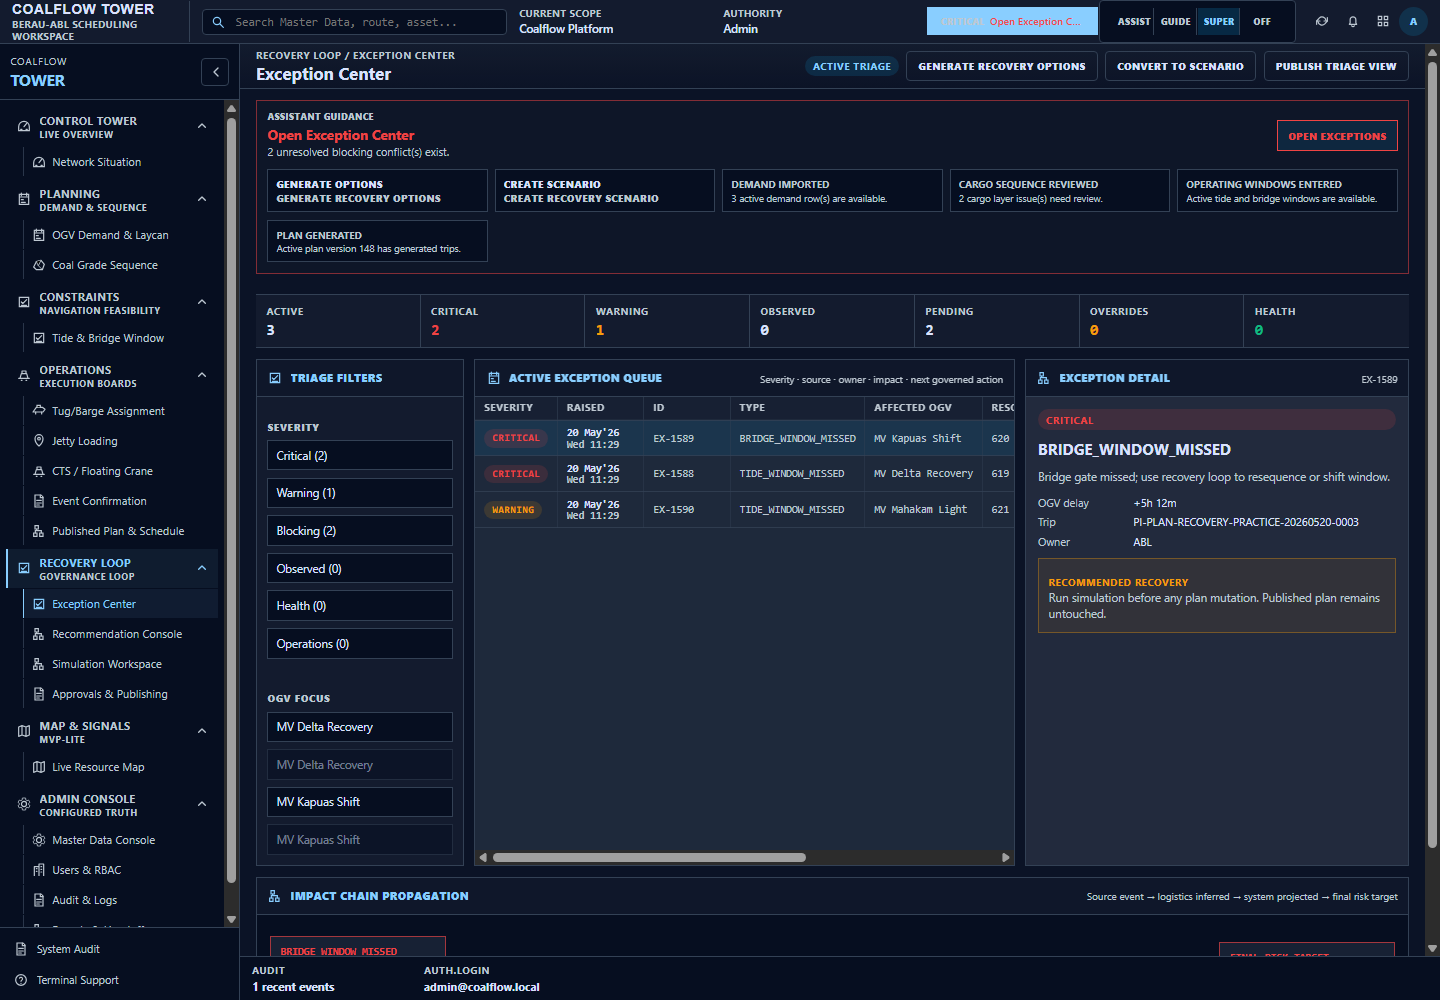
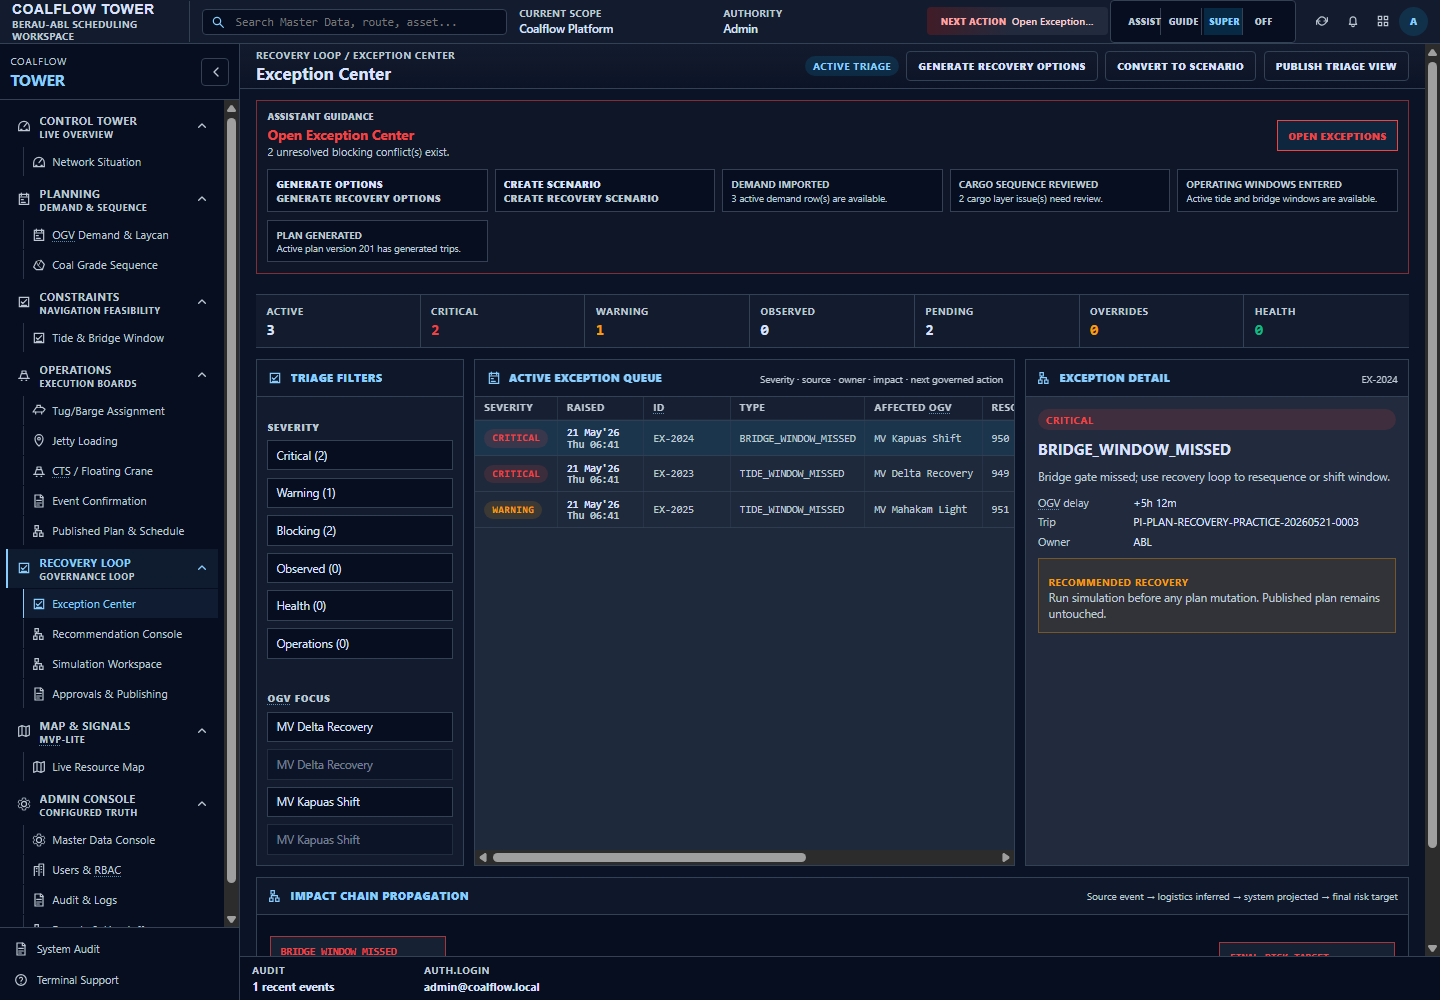
Demo Ready

Changed region(s): [[0.625, 0.0, 0.875, 0.062], [0.4062, 0.434, 0.4375, 0.527]]

diff --git a/frontend/src/lib/navigation.ts b/frontend/src/lib/navigation.ts
@@ -172,7 +172,7 @@ export const NAV_MODULES: NavModule[] = [
   {
     id: "map",
     label: "Map & Signals",
-    eyebrow: "MVP-lite",
+    eyebrow: "GPS/AIS Dashboard",
     icon: "map",
     items: [
       {

diff --git a/backend/apps/planning/views.py b/backend/apps/planning/views.py
@@ -15,6 +15,7 @@ from apps.audit.services import record_audit_event
 from apps.masters.models import Barge, CoalGrade, CTSAsset, Jetty, Location, RouteSegment
 from apps.organizations.models import Organization
 from apps.rbac.permissions import RequiresAccessPermission
+from apps.scheduling.models import PlanVersion
 
 from .models import (
     AssetAvailabilityWindow,
@@ -467,6 +468,29 @@ def _clear_resolved_navigation_recovery_state(voyages: list[OGVVoyage]) -> dict[
     return {"cargoLayers": cleared_layers, "voyages": cleared_voyages}
 
 
+def _mark_editable_plan_versions_stale(*, reason: str) -> int:
+    stale_count = 0
+    now = timezone.now().isoformat()
+    for plan_version in PlanVersion.objects.filter(
+        status__in=[
+            PlanVersion.Status.DRAFT,
+            PlanVersion.Status.GENERATED,
+            PlanVersion.Status.VALIDATED,
+            PlanVersion.Status.PROPOSED,
+        ],
+    ):
+        summary = plan_version.summary if isinstance(plan_version.summary, dict) else {}
+        plan_version.summary = {
+            **summary,
+            "sourceInputsChanged": True,
+            "sourceInputChangeReason": reason,
+            "sourceInputChangedAt": now,
+        }
+        plan_version.save(update_fields=["summary", "updated_at"])
+        stale_count += 1
+    return stale_count
+
+
 class PlanningOverviewViewSet(PlanningViewSet):
     queryset = OGVVoyage.objects.none()
     serializer_class = OGVVoyageSerializer
@@ -681,6 +705,9 @@ class PlanningOverviewViewSet(PlanningViewSet):
                 checks_created += 2
 
         cleared_recovery_state = _clear_resolved_navigation_recovery_state(target_voyages)
+        stale_plan_versions = _mark_editable_plan_versions_stale(
+            reason="operating_windows_entered",
+        )
 
         record_audit_event(
             actor=request.user,
@@ -697,6 +724,7 @@ class PlanningOverviewViewSet(PlanningViewSet):
                 "constraint_checks": checks_created,
                 "cleared_layer_blockers": cleared_recovery_state["cargoLayers"],
                 "cleared_voyage_blockers": cleared_recovery_state["voyages"],
+                "stale_plan_versions": stale_plan_versions,
             },
             request=request,
         )
@@ -711,6 +739,7 @@ class PlanningOverviewViewSet(PlanningViewSet):
                 "constraintChecks": checks_created,
                 "clearedLayerBlockers": cleared_recovery_state["cargoLayers"],
                 "clearedVoyageBlockers": cleared_recovery_state["voyages"],
+                "stalePlanVersions": stale_plan_versions,
             },
             status=status.HTTP_201_CREATED,
         )

diff --git a/backend/apps/assistant/tests/test_rules.py b/backend/apps/assistant/tests/test_rules.py
@@ -154,6 +154,65 @@ def test_blocking_conflict_outranks_submit_approval():
     assert shaped.global_next_action.action_id == "OPEN_EXCEPTION_CENTER"
 
 
+def test_recovery_recommendation_route_prioritizes_testing_over_generic_exception():
+    ctx = context(
+        route="/recovery/recommendations",
+        active_plan_status=PlanVersion.Status.GENERATED,
+        active_plan_trip_count=4,
+        blocking_conflict_count=2,
+        demand_count=2,
+        tide_window_count=1,
+        bridge_window_count=1,
+        latest_optimizer_run_id=12,
+        latest_optimizer_run_status=OptimizerRun.Status.SUCCEEDED,
+        latest_optimizer_run_candidate_count=3,
+        top_recovery_recommendation_id=44,
+        top_recovery_recommendation_ref="REC-44",
+        top_recovery_recommendation_status=RecoveryRecommendation.Status.CANDIDATE,
+    )
+
+    shaped = shape_recommendations(ctx, evaluate_rules(ctx))
+
+    assert shaped.global_next_action
+    assert shaped.global_next_action.action_id == "MATERIALIZE_RECOVERY_RECOMMENDATION"
+    assert action_ids(shaped.page_actions)[0] == "MATERIALIZE_RECOVERY_RECOMMENDATION"
+
+
+def test_corrected_constraints_prioritize_regeneration_over_stale_exceptions():
+    ctx = context(
+        route="/constraints/tide-bridge",
+        active_plan_status=PlanVersion.Status.PROPOSED,
+        active_plan_trip_count=6,
+        active_plan_is_editable=True,
+        source_inputs_changed=True,
+        blocking_conflict_count=6,
+        constraint_blocker_count=0,
+        demand_count=3,
+        tide_window_count=4,
+        bridge_window_count=4,
+    )
+
+    shaped = shape_recommendations(ctx, evaluate_rules(ctx))
+
+    assert shaped.global_next_action
+    assert shaped.global_next_action.action_id == "REGENERATE_PLAN"
+    assert action_ids(shaped.page_actions)[0] == "REGENERATE_PLAN"
+
+
+def test_promoted_but_blocked_plan_does_not_claim_approval_submitted():
+    ctx = context(
+        active_plan_status=PlanVersion.Status.PROPOSED,
+        active_plan_trip_count=6,
+        blocking_conflict_count=2,
+        pending_approval_count=0,
+        all_required_approvals_complete=False,
+    )
+
+    checklist = checklist_by_key(build_checklist(ctx, shape_recommendations(ctx, [])))
+
+    assert checklist["approval_submitted"]["status"] == "pending"
+
+
 def test_phase5_disruption_recommends_recovery_options_before_manual_scenario():
     ctx = context(
         route="/exceptions/center",

diff --git a/backend/apps/assistant/rules.py b/backend/apps/assistant/rules.py
@@ -126,7 +126,7 @@ def rule_editable_stale_regenerate(ctx: AssistantContext) -> list[ActionRecommen
             build_recommendation(
                 "REGENERATE_PLAN",
                 priority="warning",
-                rank_score=740,
+                rank_score=990,
                 enabled=True,
                 reason="Source demand, constraints, or actuals changed after plan generation.",
                 source="plan.editable_stale_regenerate",
@@ -418,6 +418,7 @@ def rule_recovery_recommendation_ready_to_materialize(
         ctx.top_recovery_recommendation_id
         and ctx.top_recovery_recommendation_scenario_id is None
         and ctx.top_recovery_recommendation_status
+        and ctx.top_recovery_recommendation_status
         not in {
             RecoveryRecommendation.Status.DISMISSED,
             RecoveryRecommendation.Status.MATERIALIZED,
@@ -427,7 +428,7 @@ def rule_recovery_recommendation_ready_to_materialize(
             build_recommendation(
                 "MATERIALIZE_RECOVERY_RECOMMENDATION",
                 priority="warning",
-                rank_score=810,
+                rank_score=870,
                 enabled=True,
                 reason=(
                     "The top recovery recommendation is ready to be tested as a governed scenario."

diff --git a/backend/apps/assistant/services.py b/backend/apps/assistant/services.py
@@ -56,8 +56,10 @@ class AssistantChecklistItem:
 
 VALID_ASSISTANT_MODES = {"off", "assisted", "guided", "supervisor"}
 RECOVERY_WORKFLOW_NEXT_ACTION_IDS = {
+    "MATERIALIZE_RECOVERY_RECOMMENDATION",
     "RUN_SIMULATION",
     "PROMOTE_SCENARIO",
+    "REGENERATE_PLAN",
 }
 
 
@@ -587,7 +589,6 @@ def _stage_approval_submitted(ctx) -> AssistantChecklistItem:
         ctx.pending_approval_count > 0
         or ctx.all_required_approvals_complete
         or ctx.active_plan_status in {
-            PlanVersion.Status.PROPOSED,
             PlanVersion.Status.APPROVED,
             PlanVersion.Status.PUBLISHED,
         }
@@ -604,6 +605,7 @@ def _stage_approval_submitted(ctx) -> AssistantChecklistItem:
             PlanVersion.Status.DRAFT,
             PlanVersion.Status.GENERATED,
             PlanVersion.Status.VALIDATED,
+            PlanVersion.Status.PROPOSED,
         }
         and ctx.active_plan_trip_count > 0
         and ctx.blocking_conflict_count == 0

diff --git a/backend/apps/scheduling/tests/test_schedule_generation.py b/backend/apps/scheduling/tests/test_schedule_generation.py
@@ -256,6 +256,11 @@ def test_recovery_operating_windows_clear_stale_trip_blockers_before_regeneratio
     client.force_authenticate(user)
     response = client.post("/api/planning/overview/enter-operating-windows/")
 
+    version.refresh_from_db()
+    assert response.data["stalePlanVersions"] >= 1
+    assert version.summary["sourceInputsChanged"] is True
+    assert version.summary["sourceInputChangeReason"] == "operating_windows_entered"
+
     result = generate_plan_version(version)
     version.refresh_from_db()
 

diff --git a/backend/apps/assistant/registry.py b/backend/apps/assistant/registry.py
@@ -426,6 +426,7 @@ ROUTE_ACTIONS: Final[dict[str, tuple[str, ...]]] = {
     "/constraints/tide-bridge": (
         "ENTER_OPERATING_WINDOWS",
         "GENERATE_PLAN",
+        "REGENERATE_PLAN",
         "OPEN_EXCEPTION_CENTER",
     ),
     "/operations/tug-barge-assignment": (
